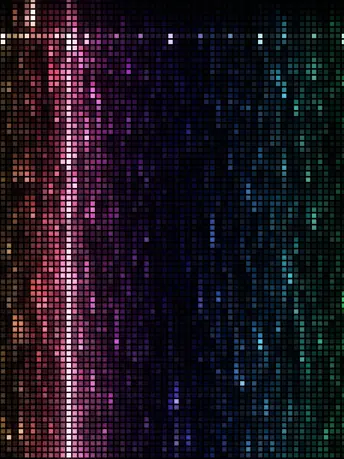
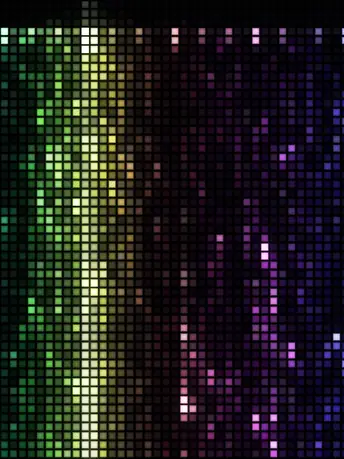
RAIN TURNS: small grain as the base, big grains in between (12-min cycle)
Claude-Session: https://claude.ai/code/session_019C65K2NCmDDLr2MsA9MRnb

diff --git a/art-v128-rain-turns.html b/art-v128-rain-turns.html
@@ -2,7 +2,7 @@
 <!-- 2026/11/28 おっちゃん「採用、録画つけてね、名前も考えて」→ 試作QUANTUM RAIN(prototypes/quantum-rain.html)を art-v128-rain-turns.html に昇格、表示名を RAIN TURNS に(Starkapoo氏の動画名と分けた)。中身は試作と同じ。ap-kit.jsのパスだけ変更: クロちゃん -->
 <!-- QUANTUM RAIN(仮) — クロちゃん(Claude)作の試作。2026/11/28 おっちゃん依頼(Starkapoo氏の「Quantum Rain」動画)。ap-kit.js統合: クロちゃん -->
 <!-- 2026/11/28 おっちゃん「上の目盛をもっと美しく馴染ませたいな」→ 目盛りの長さを画面の大きさ(px)で決め(5分=8px・15分ごと=16px、先がすっと消える)、色は雨の虹色を白に寄せた色、雨を消さず足し算で重ねる。0分〜いまは淡い光の線、いまの位置は少し長い光の針がゆっくり息づく -->
-<!-- 2026/11/28 おっちゃん「7分一周はいかんなー」→ 中(4px)を外し、大→特大→超特大→巨大→小→LEDなし の6分で1周(毎時0・6・12…分は大から) -->
+<!-- 2026/11/28 おっちゃん「基本は小で、変化したら小か元に戻る」→ 小が土台で、大→特大→超特大→巨大が1つおきに出て、そのあとは小か元に戻る12分で1周(毎時0・12・24…分は小から) -->
 <!-- 2026/11/28 おっちゃん「2と元も入れてよ」→ 毎分の粒の順番に 小(2px)とLEDなし(元の描き方)も入れた: 大→特大→超特大→巨大→中→小→LEDなし -->
 <!-- 2026/11/28 おっちゃん「色合いも10秒毎にランダムで、せっかく時計になってるから目盛みたいなのが欲しいよね」→ 10秒ごとに虹の並びがランダムにずれる(?hue=0で止める)。上の端(画面の上から約46px下)に、LEDの粒で5分ごとの目盛り(0・15・30・45分は2粒の高さで明るく)と、0分からいまの分までの光の線、いまの位置の白い粒 -->
 <!-- 2026/11/28 おっちゃん「とても良い！もっとヌルヌルにならないかな？」→ LEDの粒の明るさを別の小さな描画先で計算(粒の中を9点で拾う)。前のコマから滑らかにつなぎ(点くのは素早く、消えるのは少し残光)、明るさの24段階もやめた -->
@@ -321,7 +321,8 @@ addEventListener('resize',resize);resize();
 
 var hueBlk=null,hueT=0,hueV=0,rDir=1,rPh=0,phV=0,phH=0,dirV=1,dirH=1,wH=0,preV=0;var LED=Q.get('led')!=='0';
 var GRAIN=[8.4,12,16,24,4.2,2.1,0],GNAME=['LEDの粒: 大(約8px)','LEDの粒: 特大(約12px)','LEDの粒: 超特大(約16px)','LEDの粒: 巨大(約24px)','LEDの粒: 中(約4px)','LEDの粒: 小(約2px)','LEDなし(元の描き方)'],gi=0;   // 2026/11/28「あえて大きくした方がインパクトある」→ 既定は大   // 粒の大きさの見比べ(?cell=4/8/2/0 か下の▦ボタン)
-var gAuto=true,gOff=0,AUTO_G=[0,1,2,3,5,6];   // 2026/11/28「7分一周はいかんなー」→ 中(4px)を外して6分で1周(1時間でちょうど10周、毎時0分は大から)   // 2026/11/28「2と元も入れてよ」→ 小(2px)とLEDなしも順番に入れる
+var gAuto=true,gOff=0,AUTO_G=[5,0,5,1,5,2,6,3,5,6,5,5];   // 2026/11/28「基本は小で、変化したら小か元に戻る」→ 12分で1周(1時間でちょうど5周、毎時0分は小から)。小(5)が土台で、大→特大→超特大→巨大が1つおきに出て、そのあとは小か元(6)に戻る
+   // 2026/11/28「7分一周はいかんなー」→ 中(4px)を外して6分で1周(1時間でちょうど10周、毎時0分は大から)   // 2026/11/28「2と元も入れてよ」→ 小(2px)とLEDなしも順番に入れる
    // 2026/11/28「1分おきに大きさを自動で変更にして」→ 毎分、大→特大→超特大→巨大→中 の順に粒が変わる(▦で順番を1つ進める)
 (function(){var c=Q.get('cell');if(c!==null){var k={'8':0,'12':1,'16':2,'24':3,'4':4,'2':5,'0':6}[c];if(k!==undefined){gi=k;gAuto=false;}}})();   // LEDパネル表示(?led=0 で元の描き方)
 var touch={x:.5,y:.5,s:0,down:false};

diff --git a/CHANGELOG.md b/CHANGELOG.md
@@ -1,3 +1,4 @@
+- 2026-11-28 クロちゃん: RAIN TURNS(art-v128)の毎分の粒の順番を、小が土台になるよう変更(おっちゃん「基本は小で頼むよ、変化したら小か元に戻るかんじで」)。12分で1周(1時間でちょうど5周、毎時0分は小から): 小→大→小→特大→小→超特大→元→巨大→小→元→小→小。大きい粒が1つおきに出て、そのあとは小か元に戻る。雨の向き(偶数分=下、奇数分=上)は変えていない。▦ボタンも元のまま。確認: 構文チェック通過、既定表示で録画(mp4)が通る。ポスター・OGPカード・IG縦型カバーを作り直した。**スマホ実機での見え方は未確認**(art-v128-rain-turns.html, posters/, og/, reel/, CHANGELOG.md)
 - 2026-11-28 クロちゃん: RAIN TURNS(art-v128)の二重表示(?cell=dual、奥=超特大/巨大・前=小/元、奥の色ずらし?bh=)を外した(おっちゃん「やっぱり合成は無し」)。art-v128-rain-turns.htmlを二重表示を入れる前の版(1811dd2)に戻しただけで、毎分の自動の順番(6分で1周)と▦ボタンは元のまま。確認: 構文チェック通過、既定表示で録画(mp4)が通る。ポスター・OGPカード・IG縦型カバーを作り直した(art-v128-rain-turns.html, posters/, og/, reel/, CHANGELOG.md)
 - 2026-11-28 クロちゃん: RAIN TURNSの二重表示で、奥と前の色合いを別にした(おっちゃん「奥と前で色合いも別にして欲しいよ」)。奥の層だけ色相を150°ずらし(約40秒かけて±28°ゆっくり揺れる)、彩度は落とさない(最初にRGBの回転で回したら緑〜茶色に濁ったので、HSVで色相だけ回して彩度を最低0.88に)。前が青・紫・ピンクのとき、奥は橙・黄・緑・赤寄りになる。`?bh=度`でずらす量を変えられる(0で前と同じ色)。確認: ヘッドレスChromium・390×844で4通り(超特大/巨大×小/元)を目で確認、コンソールエラーなし、既定表示の録画も通る。ポスター・OGPカード・IG縦型カバーを作り直した。見た目は好みが分かれるので、実機で見て`?bh=`を決める想定。**スマホ実機での重さは未確認**(art-v128-rain-turns.html, posters/, og/, reel/, CHANGELOG.md)
 - 2026-11-28 クロちゃん: RAIN TURNS(art-v128)の二重表示を、超特大(約16px)と巨大(約24px)を奥にして、前に小(約2px)か元(LEDなし)を重ねる4通りに(おっちゃん「超特大と巨大だけに2と元を重ねたパターンも欲しい」→「特大と小は要らない」)。`?cell=dual&back=16|24&front=2|0`(back省略=16、front省略=小)。直前に作った「奥=特大(12px)・前=小」は外した(奥の大きさは16と24だけ)。奥の粒の足し算を、前がLEDの粒でも元の描き方でも効くようにシェーダーの分岐の外へ移した。毎分の自動の順番(6分で1周)と▦ボタンは変えていない。確認: ヘッドレスChromium・390×844で4通りを並べて目で確認、コンソールエラーなし。ポスター・OGPカード・IG縦型カバーを作り直した。**スマホ実機での重さは未確認**(art-v128-rain-turns.html, posters/, og/, reel/, CHANGELOG.md)
